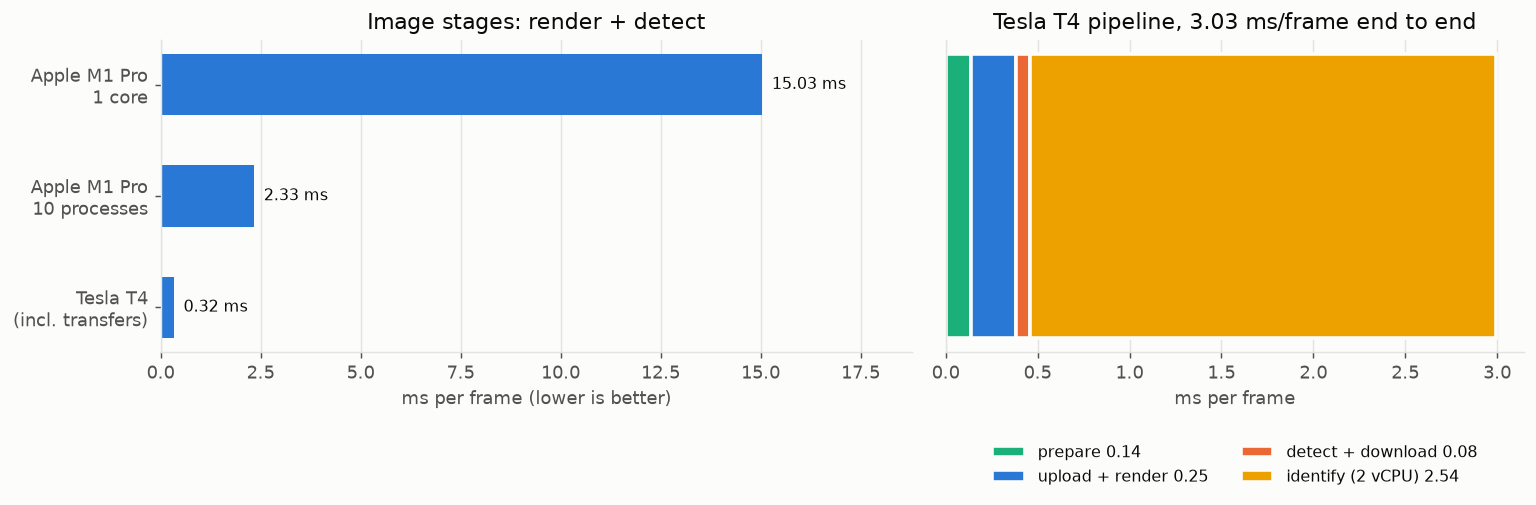
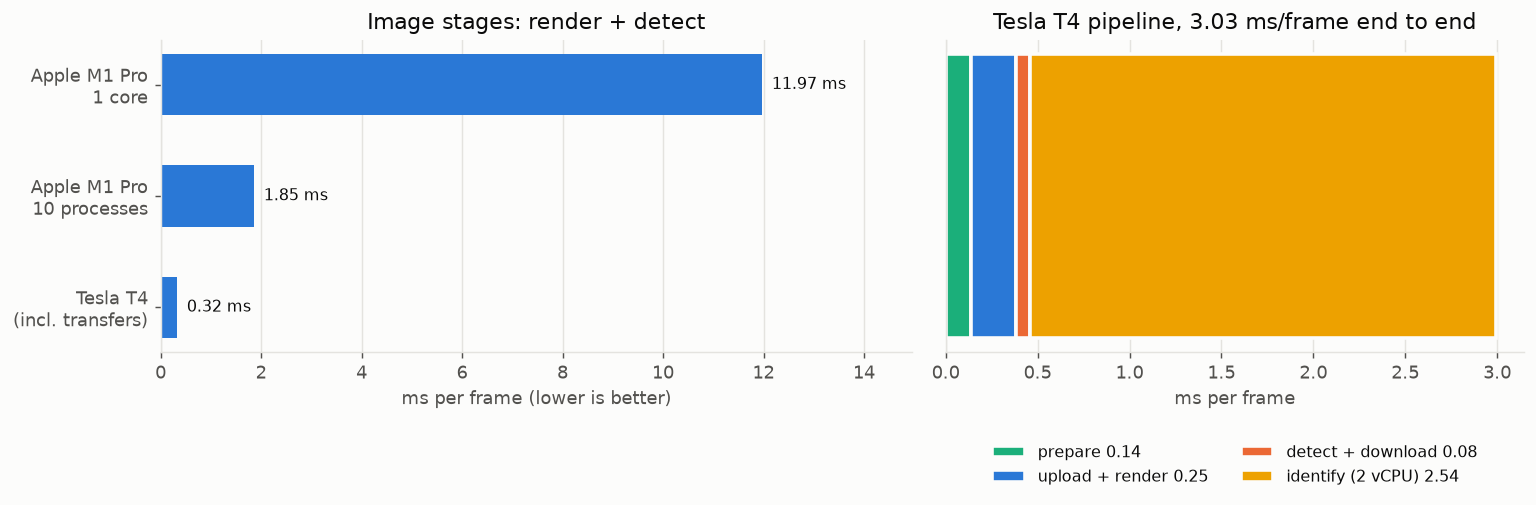
Day 6 final: AC-power CPU benchmark (M1 Pro 10 cores), report/figure/README updated; 5.7x image stages, Amdahl end to end

diff --git a/LEARNING.md b/LEARNING.md
@@ -636,7 +636,8 @@ lower detection threshold with a better centroider (more faint stars detected, a
 per core. The GPU side runs batches of 128: prepare → pack + upload → render → detect + download → identify on CPU cores.
 
 **The fairness rules, and why each matters.**
-- *Best CPU code, all cores.* A GPU vs single-core comparison inflates the speed-up by the core count. Here: 47× vs 1 core, but only **7.2× vs 10 cores**.
+- *Best CPU code, all cores.* A GPU vs single-core comparison inflates the speed-up by the core count. Here: 37× vs 1 core, but only **5.7× vs 10 cores**.
+- *Plug in.* On battery the M1 Pro ran ~20 % slower (10-core render + detect 2.33 vs 1.85 ms), which would have flattered the GPU.
 - *Fastest CPU noise.* The GPU-matching counter noise is 2.3× slower on a CPU, so the baseline uses `rng.normal`.
 - *Warm up first.* The first GPU launch compiles kernels (NVRTC) and allocates memory. Two warm-up batches are discarded.
 - *Synchronise before stopping the clock.* GPU calls return immediately, and the work happens later. Without a synchronise you time the *launch*, not the work.
@@ -644,12 +645,12 @@ per core. The GPU side runs batches of 128: prepare → pack + upload → render
 - *Include transfers.* Upload of star lists and download of detections are counted. (Images never move, which is the design point.)
 - *Name the hardware.* Apple M1 Pro (8P + 2E cores); Tesla T4 70 W, driver 580.82.07; Colab host Xeon 2.0 GHz with 2 vCPUs.
 
-**Worked example: Amdahl's law with our numbers.** One M1 Pro core spends 14.7 ms on render + detect and 2.1 ms on everything else (16.8 ms total).
-Make render + detect infinitely fast and the frame still takes 2.1 ms: at best **8×**, however good the GPU is.
+**Worked example: Amdahl's law with our numbers.** One M1 Pro core spends 12.1 ms on render + detect and 1.6 ms on everything else (13.8 ms total).
+Make render + detect infinitely fast and the frame still takes 1.6 ms: at best 13.8 / 1.6 ≈ **8×**, however good the GPU is.
 On Colab the "everything else" (identify) runs on 2 slow vCPUs at 2.5 ms/frame. So the T4 pipeline (3.0 ms) is *slower* end to end than the
-10-core Mac (2.7 ms), even though its image stages are 7× faster.
+10-core Mac (2.0 ms), even though its image stages are 5.7× faster.
 
-**Interview question.** *"Your GPU kernel is 47× faster. Why is your end-to-end speed-up so much smaller?"*
-Answer: 47× is against one CPU core. The fair comparison (all cores) is 7×, and the end-to-end gain is capped by Amdahl's law: identification
+**Interview question.** *"Your GPU kernel is 37× faster. Why is your end-to-end speed-up so much smaller?"*
+Answer: 37× is against one CPU core. The fair comparison (all cores) is 5.7×, and the end-to-end gain is capped by Amdahl's law: identification
 stayed on the CPU, and on the 2-vCPU GPU host it became 84 % of the time. Next steps: run identify on more cores (or on the GPU), and overlap it
 with the GPU's next batch (pipelining), so the CPU and GPU work at the same time instead of taking turns.

diff --git a/docs/results/day6/benchmark.md b/docs/results/day6/benchmark.md
@@ -1,24 +1,24 @@
 # Day 6 benchmark: CPU vs GPU
 
-- CPU: **Apple M1 Pro (8 performance + 2 efficiency, battery power)**, NumPy, one process per core, fastest CPU noise (`rng.normal`).
+- CPU: **Apple M1 Pro (8 performance + 2 efficiency, AC power)**, NumPy, one process per core, fastest CPU noise (`rng.normal`).
 - GPU: **Tesla T4, 70.00 W, 15360 MiB, 580.82.07, 1590 MHz** (name, power limit, memory, driver, max SM clock), CuPy RawKernels, batches of 128, 2 warm-up batches, timers stopped after synchronise.
 - Colab host CPU: Intel(R) Xeon(R) CPU @ 2.00GHz, 2 vCPU (Colab).
 - Same skies on both (campaign seeding). Medians, ms per frame (lower is better).
 
 | configuration | render + detect | full pipeline | frames/s (full) | note |
 |---|---|---|---|---|
-| Apple M1 Pro, 1 core | 15.031 | 16.976 | 59 | measured |
-| Apple M1 Pro, 10 processes | 2.329 | 2.721 | 368 | measured |
+| Apple M1 Pro, 1 core | 11.968 | 13.351 | 75 | measured |
+| Apple M1 Pro, 10 processes | 1.854 | 1.999 | 500 | measured |
 | Colab Xeon 2.0 GHz, 1 core | 29.029 | 32.085 | 31 | measured (sum of stage medians) |
 | Tesla T4 + Colab 2 vCPU for identify | 0.323 | 3.028 | 330 | measured, transfers included |
-| Tesla T4 + Apple M1 Pro 10 cores for identify | 0.323 | 0.751 | 1,332 | PROJECTION (not run) |
+| Tesla T4 + Apple M1 Pro 10 cores for identify | 0.323 | 0.673 | 1,485 | PROJECTION (not run) |
 
 **Speed-ups for the image stages (render + detect, transfers included):**
-- T4 vs Apple M1 Pro 1 core: **47×**
-- T4 vs Apple M1 Pro all 10 cores: **7.2×**
+- T4 vs Apple M1 Pro 1 core: **37×**
+- T4 vs Apple M1 Pro all 10 cores: **5.7×**
 - T4 vs its own Colab CPU (1 core): 90×
 
 **GPU pipeline breakdown (ms/frame):** prepare 0.138, pack 0.004, render_kernel 0.242, detect_and_download 0.075, gpu_wall 0.319, identify_pool 2.535, total 3.028
 
 Identification is 84 % of the GPU pipeline's time on Colab's 2 vCPUs: after the GPU removes the image work, the CPU-side identify is the bottleneck (Amdahl's law).
-The projection row assumes identify scales over the Mac's cores like the full CPU pipeline did (6.2× on 10 processes); it was not run as one system.
+The projection row assumes identify scales over the Mac's cores like the full CPU pipeline did (6.7× on 10 processes); it was not run as one system.

diff --git a/README.md b/README.md
@@ -32,7 +32,7 @@ attitude ──► render ──► detect ──► identify ──────
 
 ## Why a GPU
 
-On one CPU core, a frame takes ~17 ms, and **render + detect are 87 % of it**: they touch all 1,048,576 pixels, while
+On one CPU core, a frame takes ~14 ms, and **render + detect are 88 % of it**: they touch all 1,048,576 pixels, while
 identification works on ~27 stars. That per-pixel work is what GPUs are built for:
 
 - `render.cu`: one thread per pixel per frame (block 16×16, grid 64×64×frames); each frame's star list is staged through shared
@@ -70,13 +70,13 @@ and 29 % near the galactic poles (18 stars). The vote needs enough real stars to
 ![benchmark](docs/results/day6/benchmark.png)
 
 Fair-comparison rules: the CPU code is vectorised NumPy running one process per core on an **Apple M1 Pro (8 performance + 2 efficiency
-cores)**, using its fastest noise generator; the GPU is a **Tesla T4 with a 70 W power limit** (Colab); timings use warm-up runs,
+cores, on AC power)**, using its fastest noise generator; the GPU is a **Tesla T4 with a 70 W power limit** (Colab); timings use warm-up runs,
 synchronise before stopping the clock, include CPU↔GPU transfers, and report medians.
 
-- Image stages (render + detect): **T4 0.32 ms/frame**, against 15 ms on one M1 Pro core (**47×**) and 2.3 ms on all 10 cores (**7.2×**).
-- **End to end, the T4 machine is *not* faster than the 10-core Mac** (3.0 vs 2.7 ms/frame). Once the GPU removes the image work,
+- Image stages (render + detect): **T4 0.32 ms/frame**, against 12.0 ms on one M1 Pro core (**37×**) and 1.85 ms on all 10 cores (**5.7×**).
+- **End to end, the T4 machine is *not* faster than the 10-core Mac** (3.0 vs 2.0 ms/frame). Once the GPU removes the image work,
   identification on Colab's 2 vCPUs is 84 % of the time (Amdahl's law). Pairing the T4 with more CPU cores for identification
-  is projected at ~0.75 ms/frame; that was not run as one system.
+  is projected at ~0.67 ms/frame (3× faster than the Mac alone); that was not run as one system.
 
 ## Validation
 

diff --git a/BUILD_LOG.md b/BUILD_LOG.md
@@ -330,3 +330,13 @@ not the catalog's 266k. Each star has ~26 pairs voting for it, so the trade-off 
   FINAL CPU numbers to be re-measured on AC power.
 - **Problem: `docs/results/` was git-ignored** (see the correction above). Fixed `.gitignore`; Day 5 artefacts committed in 9d5100c.
 - **README fact-check.** Corrected my own draft: 131 tests (not 126), render + detect = 87 % of a 1-core frame (not 89 %).
+
+### Day 6 final CPU benchmark (2026-10-15, AC power, Low Power Mode off): Apple M1 Pro 8P + 2E, 32 GB
+- 1 core stage medians (500 frames): prepare 0.215, render 7.225, detect 4.922, identify 1.421 ms (render + detect = 88 %).
+- Throughput (4,000 frames, 10 processes): render + detect **1.854 ms/frame**, full pipeline **1.999 ms/frame (500 frames/s)**;
+  1 process (1,000 frames): 11.968 / 13.351 ms.
+- Battery vs AC: battery was ~20 % slower (10-process render + detect 2.33 → 1.85 ms). The draft numbers are replaced everywhere.
+- **Final comparison:** T4 image stages 0.323 ms/frame incl. transfers → **37× vs 1 core, 5.7× vs all 10 cores**. End to end the
+  10-core Mac (2.00) beats the T4 + 2-vCPU host (3.03) by 1.5×: identify is 84 % of the GPU host's time (Amdahl). Projection with identify
+  on the Mac's 10 cores: 0.67 ms/frame (not run as one system; labelled as a projection).
+- Artefacts: `docs/results/day6/{benchmark.md, benchmark.png, cpu_m1pro.json, gpu_colab_t4.json}`; README updated.
